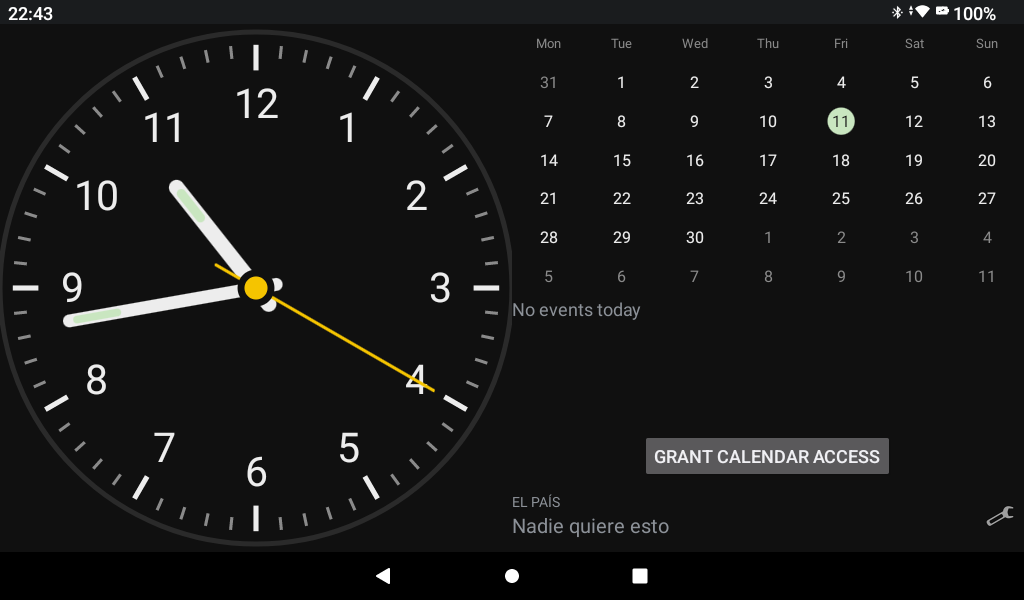
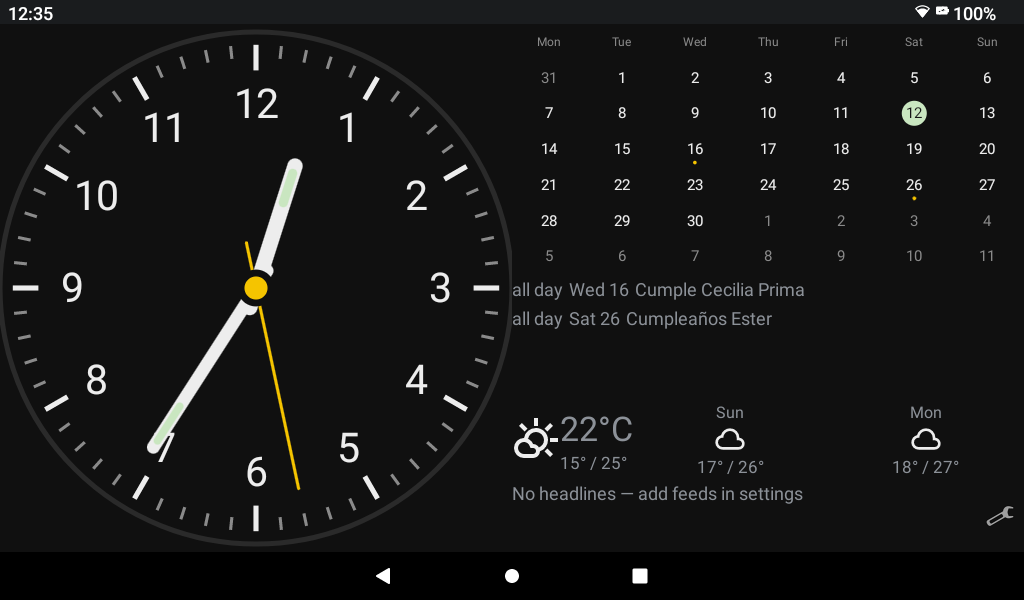
feat(app): show the weather strip on the main screen

diff --git a/app/src/main/java/org/akinosoft/akinoclock/app/MainActivity.kt b/app/src/main/java/org/akinosoft/akinoclock/app/MainActivity.kt
@@ -22,6 +22,7 @@ import org.akinosoft.akinoclock.databinding.ActivityMainBinding
 import org.akinosoft.akinoclock.rss.model.Headline
 import org.akinosoft.akinoclock.rss.ui.RssViewModel
 import org.akinosoft.akinoclock.settings.ui.SettingsActivity
+import org.akinosoft.akinoclock.weather.ui.WeatherViewModel
 
 class MainActivity : ComponentActivity() {
 
@@ -35,6 +36,10 @@ class MainActivity : ComponentActivity() {
 
     private val rssViewModel: RssViewModel by viewModels {
         RssViewModel.Factory(container.rssRepository, container.settingsRepository.feeds, container.clock)
+    }
+
+    private val weatherViewModel: WeatherViewModel by viewModels {
+        WeatherViewModel.Factory(container.weatherRepository, container.settingsRepository.weatherLocation, container.clock)
     }
 
     private val requestCalendarPermission = registerForActivityResult(ActivityResultContracts.RequestPermission()) {
@@ -51,12 +56,14 @@ class MainActivity : ComponentActivity() {
         binding.calendarPanel.grantAccessButton.setOnClickListener { onGrantAccessClicked() }
         binding.rssCarousel.onHeadlineClick = { headline -> openHeadline(headline) }
         binding.settingsButton.setOnClickListener { startActivity(Intent(this, SettingsActivity::class.java)) }
+        binding.weatherStrip.onPlaceholderClick = { startActivity(Intent(this, SettingsActivity::class.java)) }
 
         lifecycleScope.launch {
             repeatOnLifecycle(Lifecycle.State.STARTED) {
                 launch { viewModel.uiState.collect { state -> binding.calendarPanel.render(state) } }
                 launch { rssViewModel.uiState.collect { state -> binding.rssCarousel.render(state) } }
                 launch { container.nextAlarmSource.changes().collect { binding.clockView.nextAlarm = it } }
+                launch { weatherViewModel.uiState.collect { state -> binding.weatherStrip.render(state) } }
             }
         }
 
@@ -70,6 +77,7 @@ class MainActivity : ComponentActivity() {
         super.onStart()
         viewModel.start()
         rssViewModel.start()
+        weatherViewModel.start()
         updateGrantAccessButtonLabel()
     }
 
@@ -77,6 +85,7 @@ class MainActivity : ComponentActivity() {
         super.onStop()
         viewModel.stop()
         rssViewModel.stop()
+        weatherViewModel.stop()
     }
 
     override fun onResume() {

diff --git a/app/src/main/java/org/akinosoft/akinoclock/app/AppContainer.kt b/app/src/main/java/org/akinosoft/akinoclock/app/AppContainer.kt
@@ -16,6 +16,10 @@ import org.akinosoft.akinoclock.rss.data.RssRepository
 import org.akinosoft.akinoclock.settings.data.SettingsRepository
 import org.akinosoft.akinoclock.settings.data.SharedPreferencesSettingsRepository
 import org.akinosoft.akinoclock.util.net.HttpUrlConnectionFetcher
+import org.akinosoft.akinoclock.weather.data.DefaultWeatherRepository
+import org.akinosoft.akinoclock.weather.data.GeocodingClient
+import org.akinosoft.akinoclock.weather.data.OpenMeteoGeocodingClient
+import org.akinosoft.akinoclock.weather.data.WeatherRepository
 
 class AppContainer(
     context: Context,
@@ -29,4 +33,13 @@ class AppContainer(
         DefaultRssRepository(settingsRepository.currentFeeds(), feedFetcher, feedCache, clock)
     },
     val nextAlarmSource: NextAlarmSource = AlarmManagerNextAlarmSource(context),
+    val weatherRepository: WeatherRepository = run {
+        val weatherFetcher =
+            HttpUrlConnectionFetcher(userAgent = "AkinoClock/${BuildConfig.VERSION_NAME}", accept = "application/json")
+        val weatherCache = FeedCache(File(context.filesDir, "weather-cache"))
+        DefaultWeatherRepository(weatherFetcher, weatherCache, clock)
+    },
+    val geocodingClient: GeocodingClient = OpenMeteoGeocodingClient(
+        HttpUrlConnectionFetcher(userAgent = "AkinoClock/${BuildConfig.VERSION_NAME}", accept = "application/json"),
+    ),
 )

diff --git a/README.md b/README.md
@@ -1,8 +1,12 @@
 # AkinoClock
 
 An analog clock in the style of the Braun BC12 alarm clock, sharing one screen with a
-current-month calendar and a configurable RSS headline carousel. Built for a low-cost
-tablet with Android 13.
+current-month calendar, a weather strip, and a configurable RSS headline carousel. The clock
+shows a fourth hand for the next system alarm when one is set within 12 hours. Built for a
+low-cost tablet with Android 13.
+
+The weather strip shows today's condition and temperature plus a two-day forecast, for a location
+picked once in Settings via city search — no location permission, no Play Services.
 
 | Dark | Light |
 |---|---|
